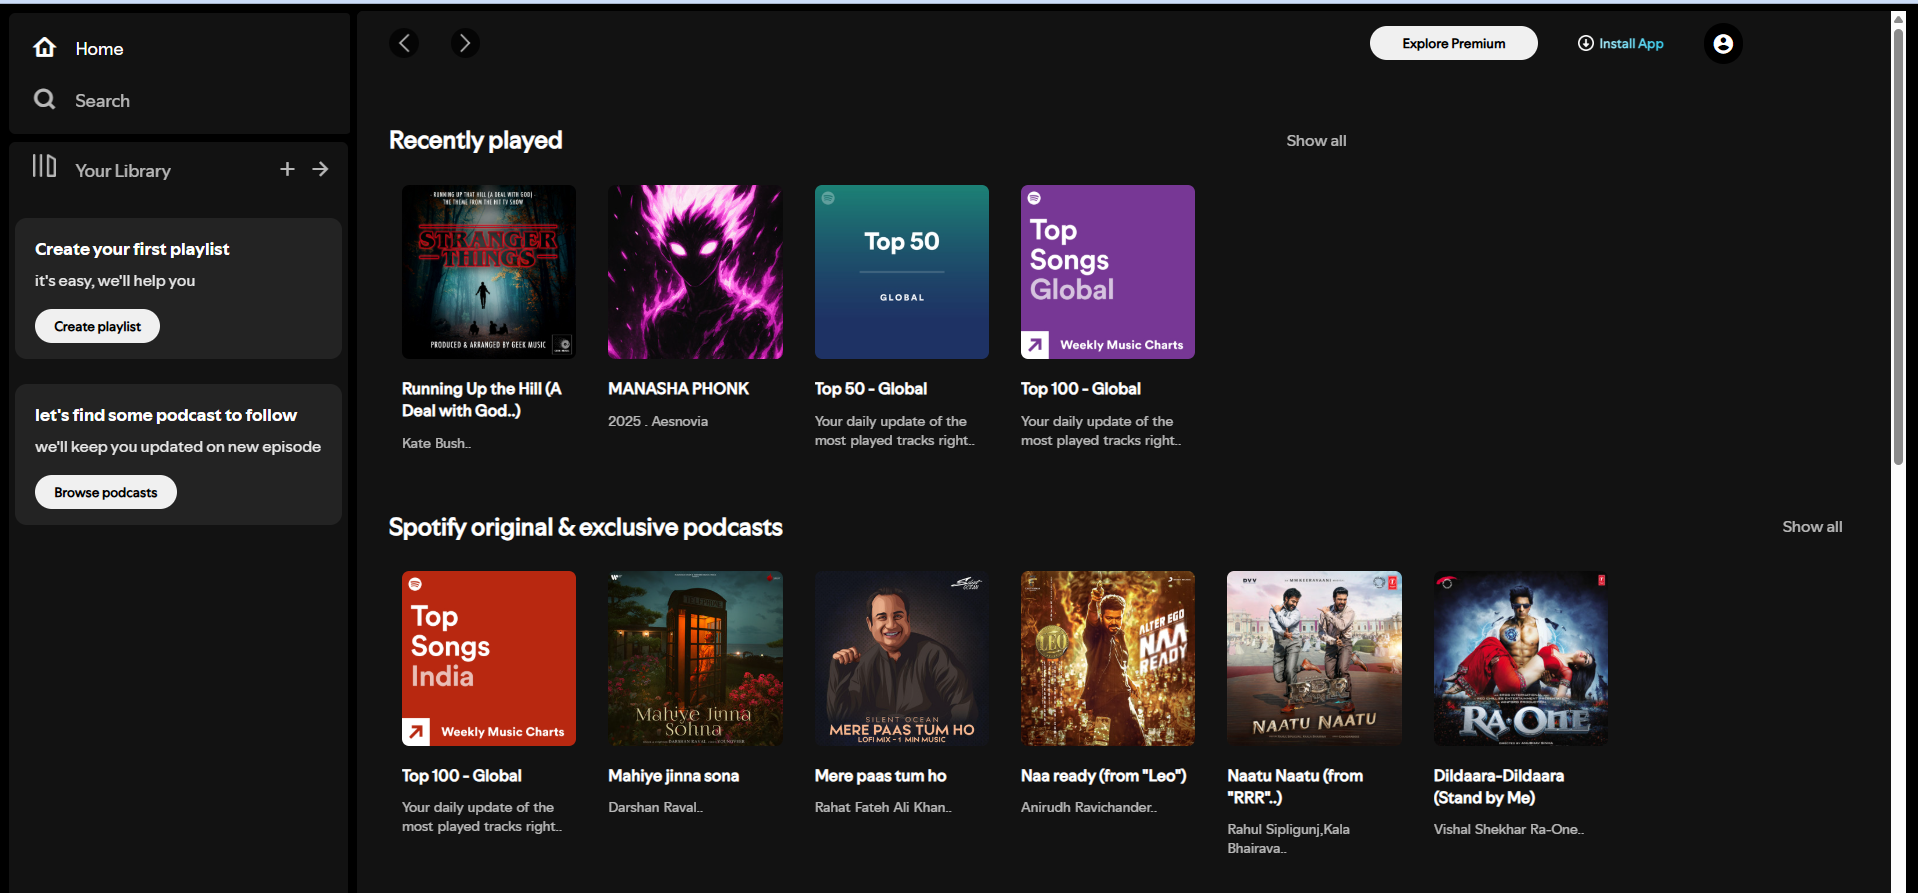
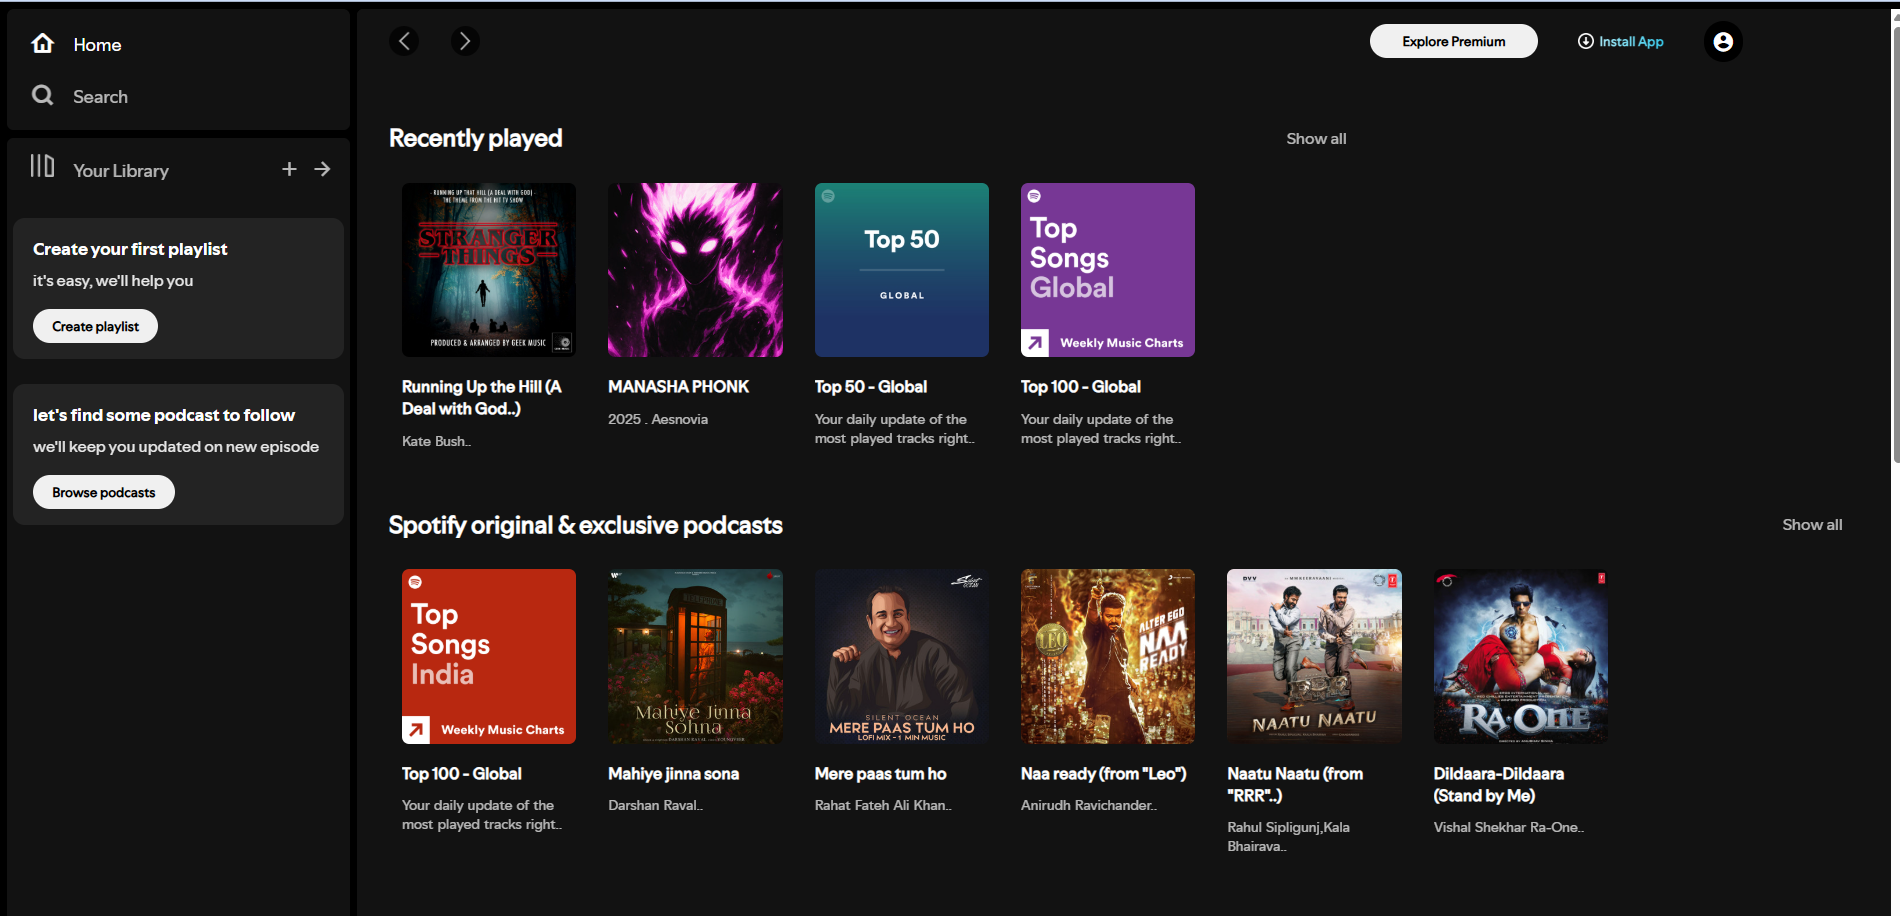
changing output 1 again

diff --git a/style.css b/style.css
@@ -191,14 +191,6 @@ main{
     overflow: auto;
 }
 
-/* @media (max-width:1360px) {
-    .library-options
-}
-
-@media (max-width:1117px) {
-    
-} */
-
 .main-sticky-navbar {
     display: flex;
     align-items: center;
